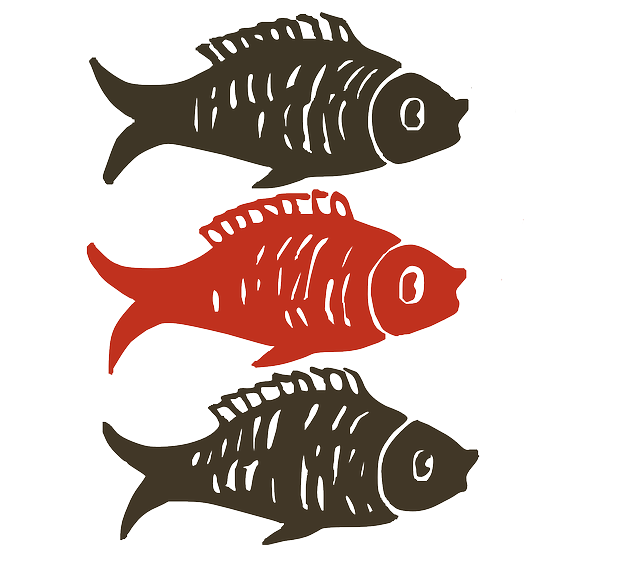
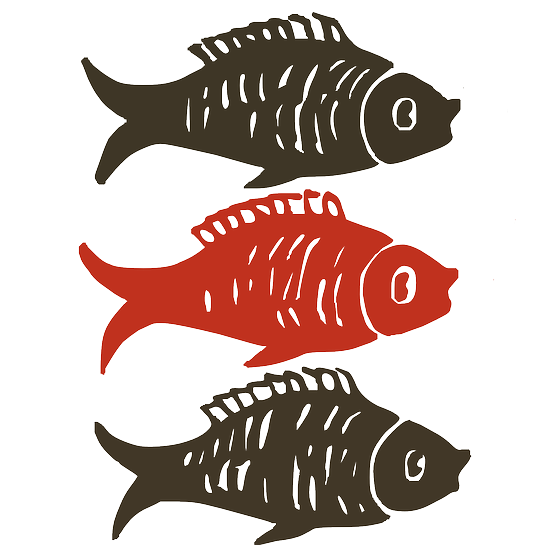
fische malen

Changed region(s): [[0.1214, 0.0, 0.85, 0.9714], [0.1518, 0.5161, 0.2732, 0.6679], [0.1214, 0.0911, 0.2125, 0.1821]]

diff --git a/game_plugins/hey_danke_fuer_den_fisch/client/sc/plugin2015/gui/renderer/primitives/HexField.java b/game_plugins/hey_danke_fuer_den_fisch/client/sc/plugin2015/gui/renderer/primitives/HexField.java
@@ -1,6 +1,7 @@
 package sc.plugin2015.gui.renderer.primitives;
 
 import processing.core.PApplet;
+import processing.core.PImage;
 import sc.plugin2015.Field;
 import sc.plugin2015.gui.renderer.FrameRenderer;
 
@@ -12,6 +13,9 @@ import sc.plugin2015.gui.renderer.FrameRenderer;
  * 
  */
 public class HexField extends PrimitiveBase{
+	// Image
+	private PImage image;
+	
 	// Fields
 	private float x, y;
 	private float a, b, c;
@@ -35,10 +39,26 @@ public class HexField extends PrimitiveBase{
 		calcSize(width);
 		setFieldX(fieldX);
 		setFieldY(fieldY);
+		image = new PImage();
 	}
 
 	public void update(Field field) {
-		numFish = field.getFish();
+		if(numFish != field.getFish()) {
+			numFish = field.getFish();
+			switch(numFish) {
+			case 1:
+				image = parent.loadImage(GuiConstants.ONE_FISH_IMAGE);
+				break;
+			case 2:
+				image = parent.loadImage(GuiConstants.TWO_FISH_IMAGE);
+				break;
+			case 3:
+				image = parent.loadImage(GuiConstants.THREE_FISH_IMAGE);
+				break;
+			default:
+				image = new PImage();
+			}		
+		}
 	}
 
 	public void draw() {
@@ -68,7 +88,9 @@ public class HexField extends PrimitiveBase{
 			parent.textFont(GuiConstants.fonts[0]);
 			parent.textSize(GuiConstants.fontSizes[0]);
 			//parent.text("" + this.fieldX + " " + this.fieldY, 25, 25);
-			parent.text("" + numFish, 25, 50);
+			//parent.text("" + numFish, 25, 50);
+
+			parent.image(image, 0, 0, 2 * getB(), 2 * getB());
 			parent.popMatrix();
 			parent.popStyle();
 		}
